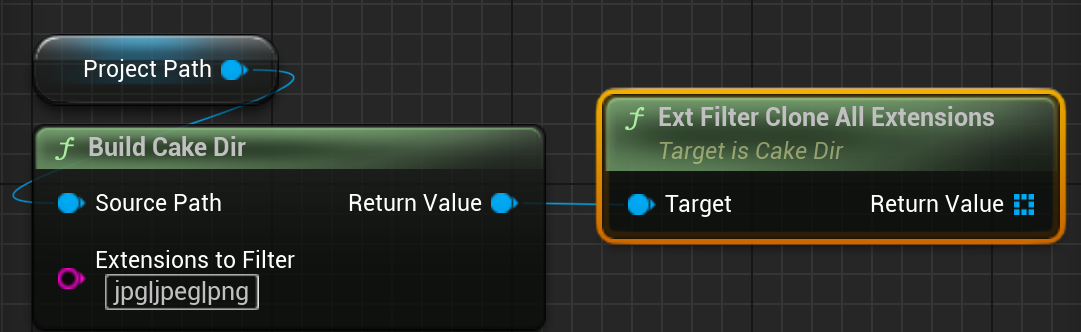
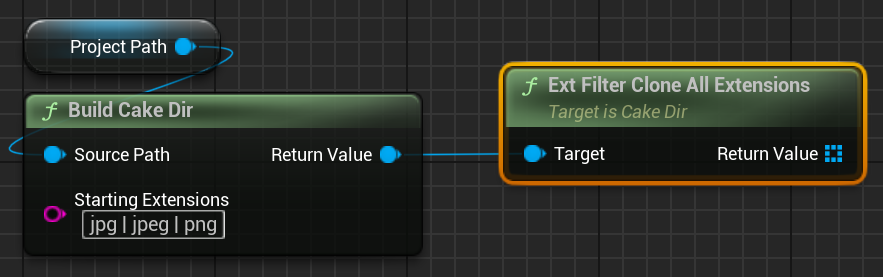
Fix ExtFilter Blueprint docs.

diff --git a/docs/core-api/special-types/cakeextfilter.md b/docs/core-api/special-types/cakeextfilter.md
@@ -80,9 +80,7 @@ If we specify an empty string-like object for the constructor, the filter set wi
 	{{ bp_img_ext_filter('Clone All Extensions') }}
 
     !!! warning
-        This array will be empty if the extension filter is empty. Furthermore, keep in mind that this array is independent of the actual extension filter -- changes made to it will __not__ affect the CakeDir's extension filter.
-
-
+        This array will be empty if the extension filter is empty. Furthermore, keep in mind that this array is not the actual extension filter -- changes made to the returned array will __not__ affect the CakeDir's extension filter. If you need to modify the extension filter itself, see the next section regarding modification functions.
 
 ### Modifying the Filter Set
 
@@ -116,7 +114,7 @@ If we specify an empty string-like object for the constructor, the filter set wi
 
 	{{ bp_img_ext_filter('Add Extensions') }}
 
-    This sends back an integer representing the number of extensions actually added. Since the extension filter only keeps unique entries, sometimes this number might be different from the number of extensions submitted. In the example above, the number of extensions added will be 2 instead of 3 since `.jpg` already was already added to the set. In situations where we don't care about the exact number of extensions added, we are free to ignore the returned value.
+    This sends back an integer representing the number of extensions actually added. Since the extension filter only keeps unique entries, sometimes this number might be different from the number of extensions submitted. In the example above, the number of extensions added will be 2 instead of 3 since `.jpg` already was already in the set. In situations where we don't care about the exact number of extensions added, we are free to ignore the returned value.
 
 #### Removing Extensions
 === "C++"
@@ -173,9 +171,9 @@ To remove all extensions from the filter set, we can use `Reset`:
 === "Blueprint"
     To remove all extensions from the filter set, we use `ExtFilterReset`:
 
-	{{ bp_img_ext_filter('Set Extensions') }}
+	{{ bp_img_ext_filter('Reset') }}
 
-    We can supply an optional integer value indicating the minimum size we would like to reserve in the internal buffer collection (e.g., if we knew we were about to store 5 new extensions, we could submit 5). You can leave this at 0 for any situation where you don't need to reserve a size.
+    We can supply an optional integer value indicating the minimum amount of file extensions that the filter should hold (e.g., if we knew we were about to store 5 new extensions, we could submit 5). You can leave this at 0 for any situation where you don't need to reserve a size.
 
 ## Advanced Usage
 
@@ -195,9 +193,9 @@ To remove all extensions from the filter set, we can use `Reset`:
 === "Blueprint"
     We can check if a CakeDir's filter set contains a specific file extension via `ExtFilterContains`, which takes a [CakeFileExt] object that holds the file extension we wish to check for:
 
-	{{ bp_img_ext_filter('Ext Filter Contains') }}
+	{{ bp_img_ext_filter('Contains') }}
 
-    `ExtFilterContains` will return true if the submitted file extension is contained in the ext filter set, false otherwise.
+    `ExtFilterContains` will return true if the submitted file extension is in the extension filter, false otherwise.
 
 ### FCakeExtFilter Equality
 --8<-- "note-native-only.md"
